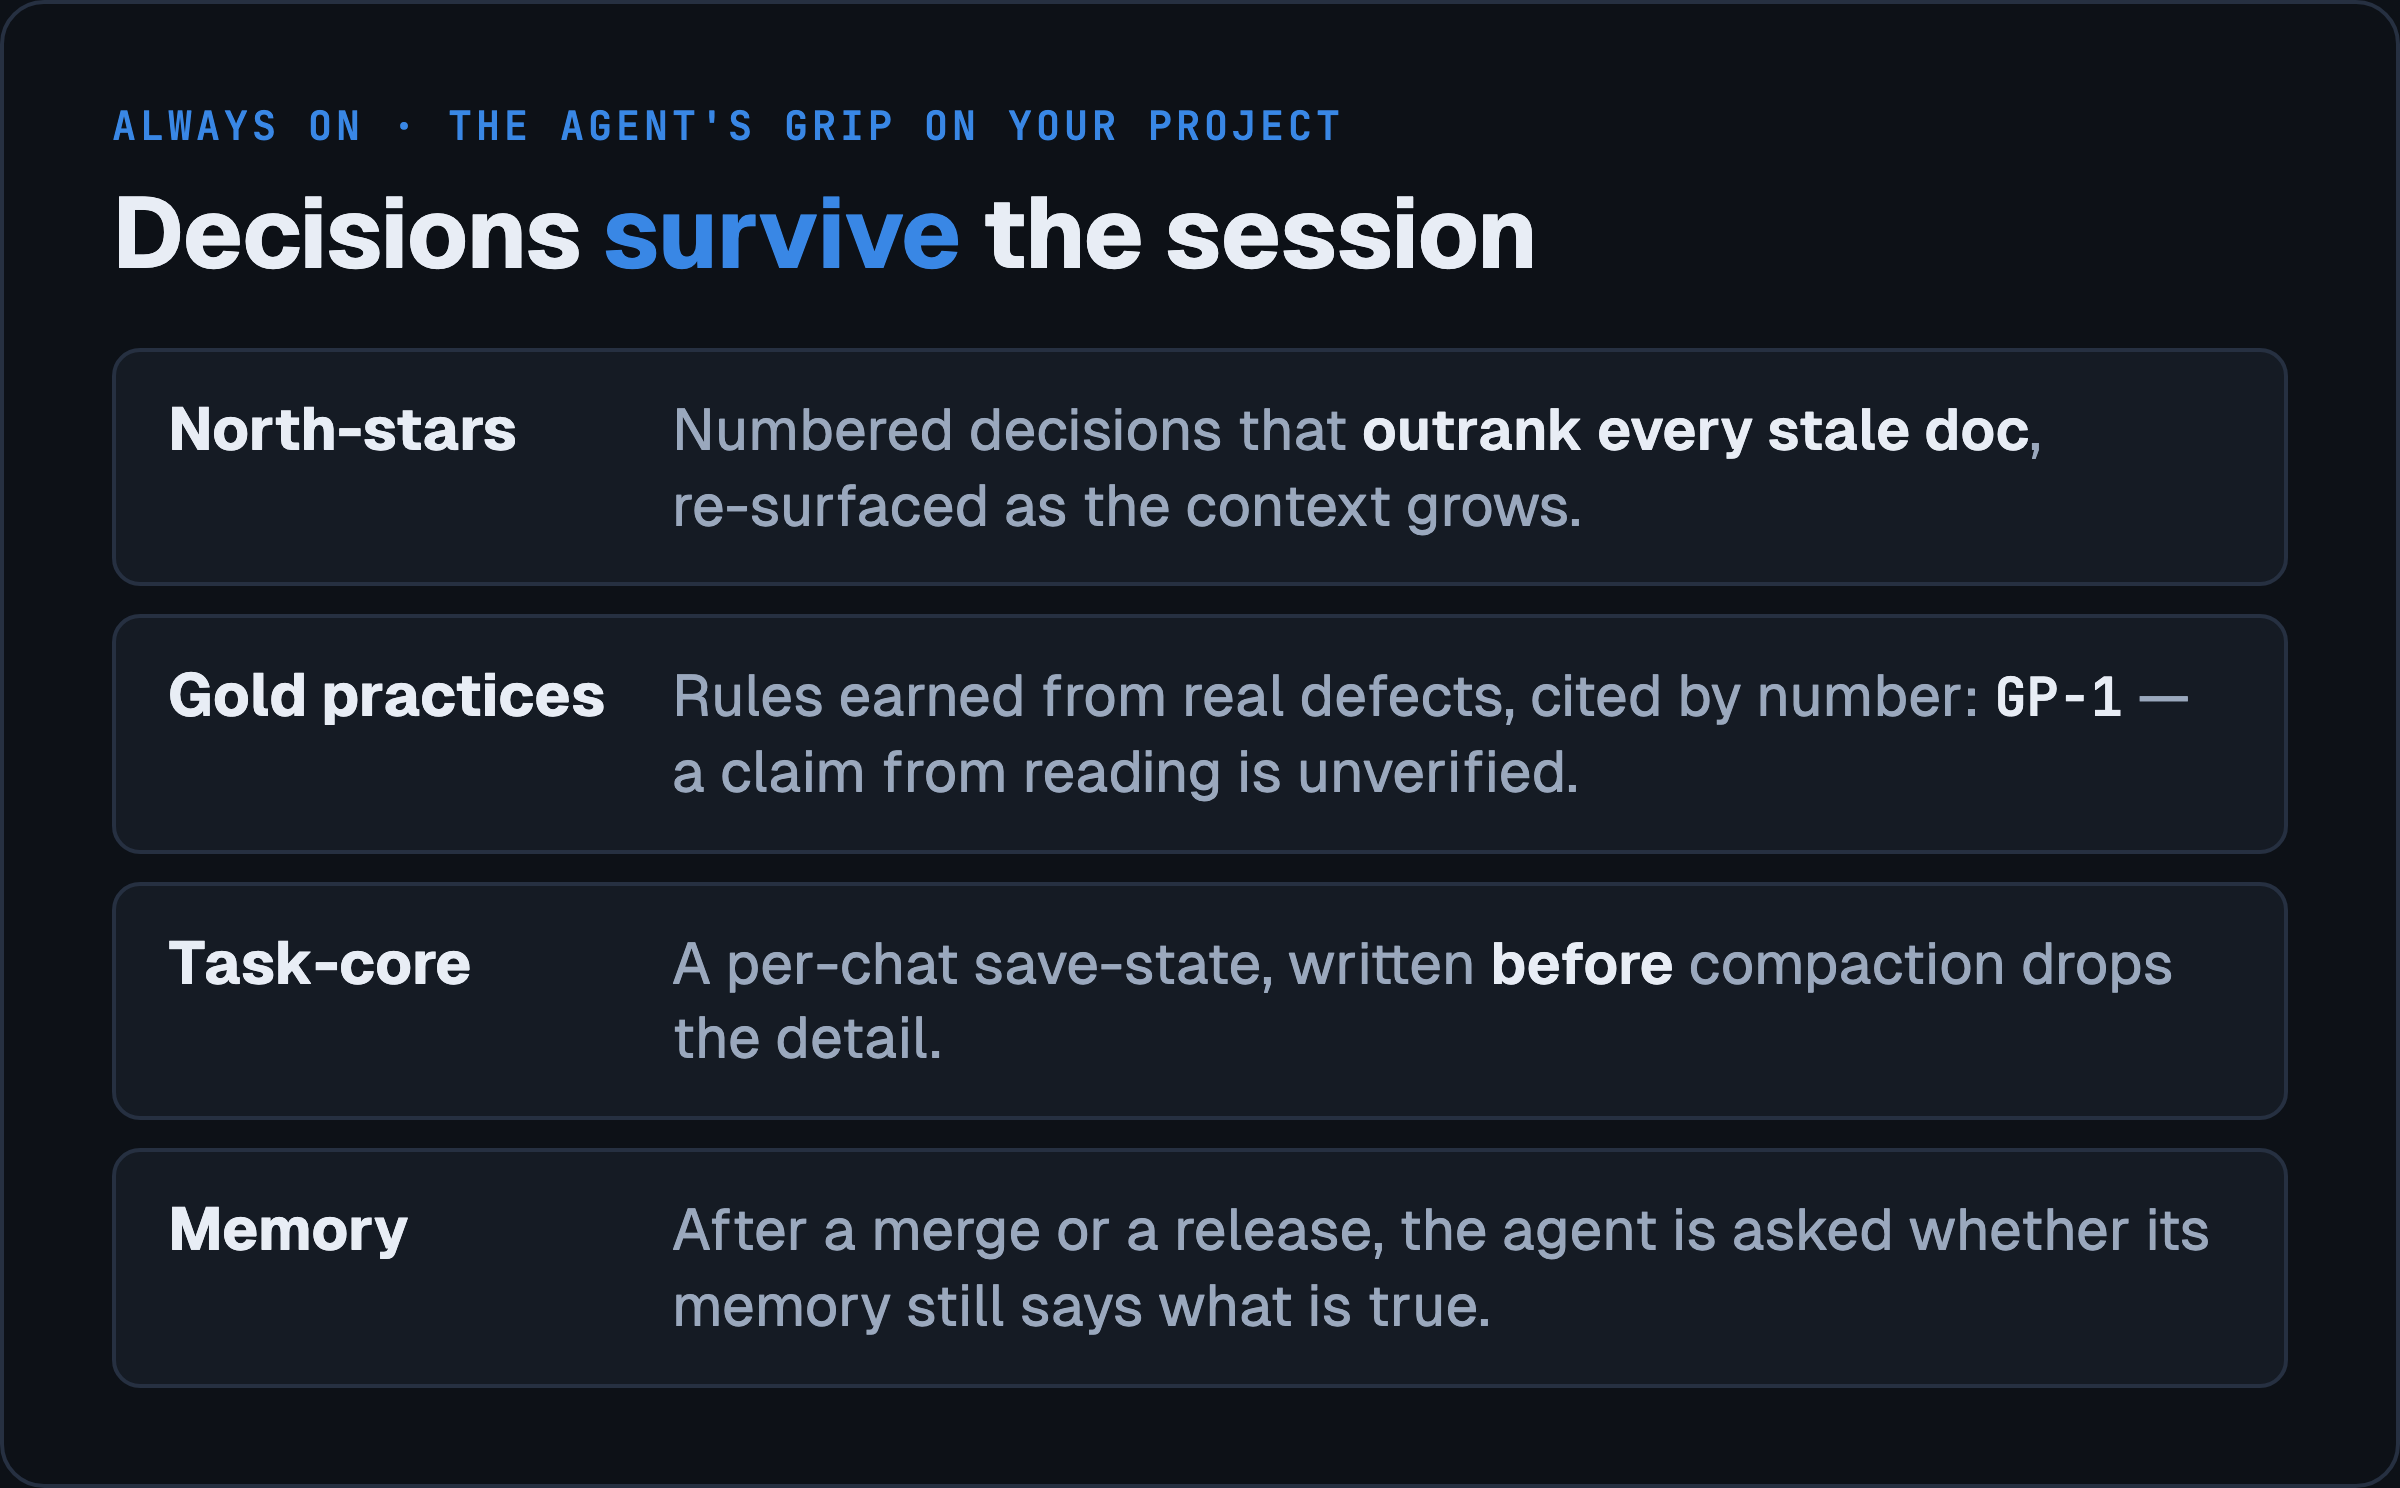
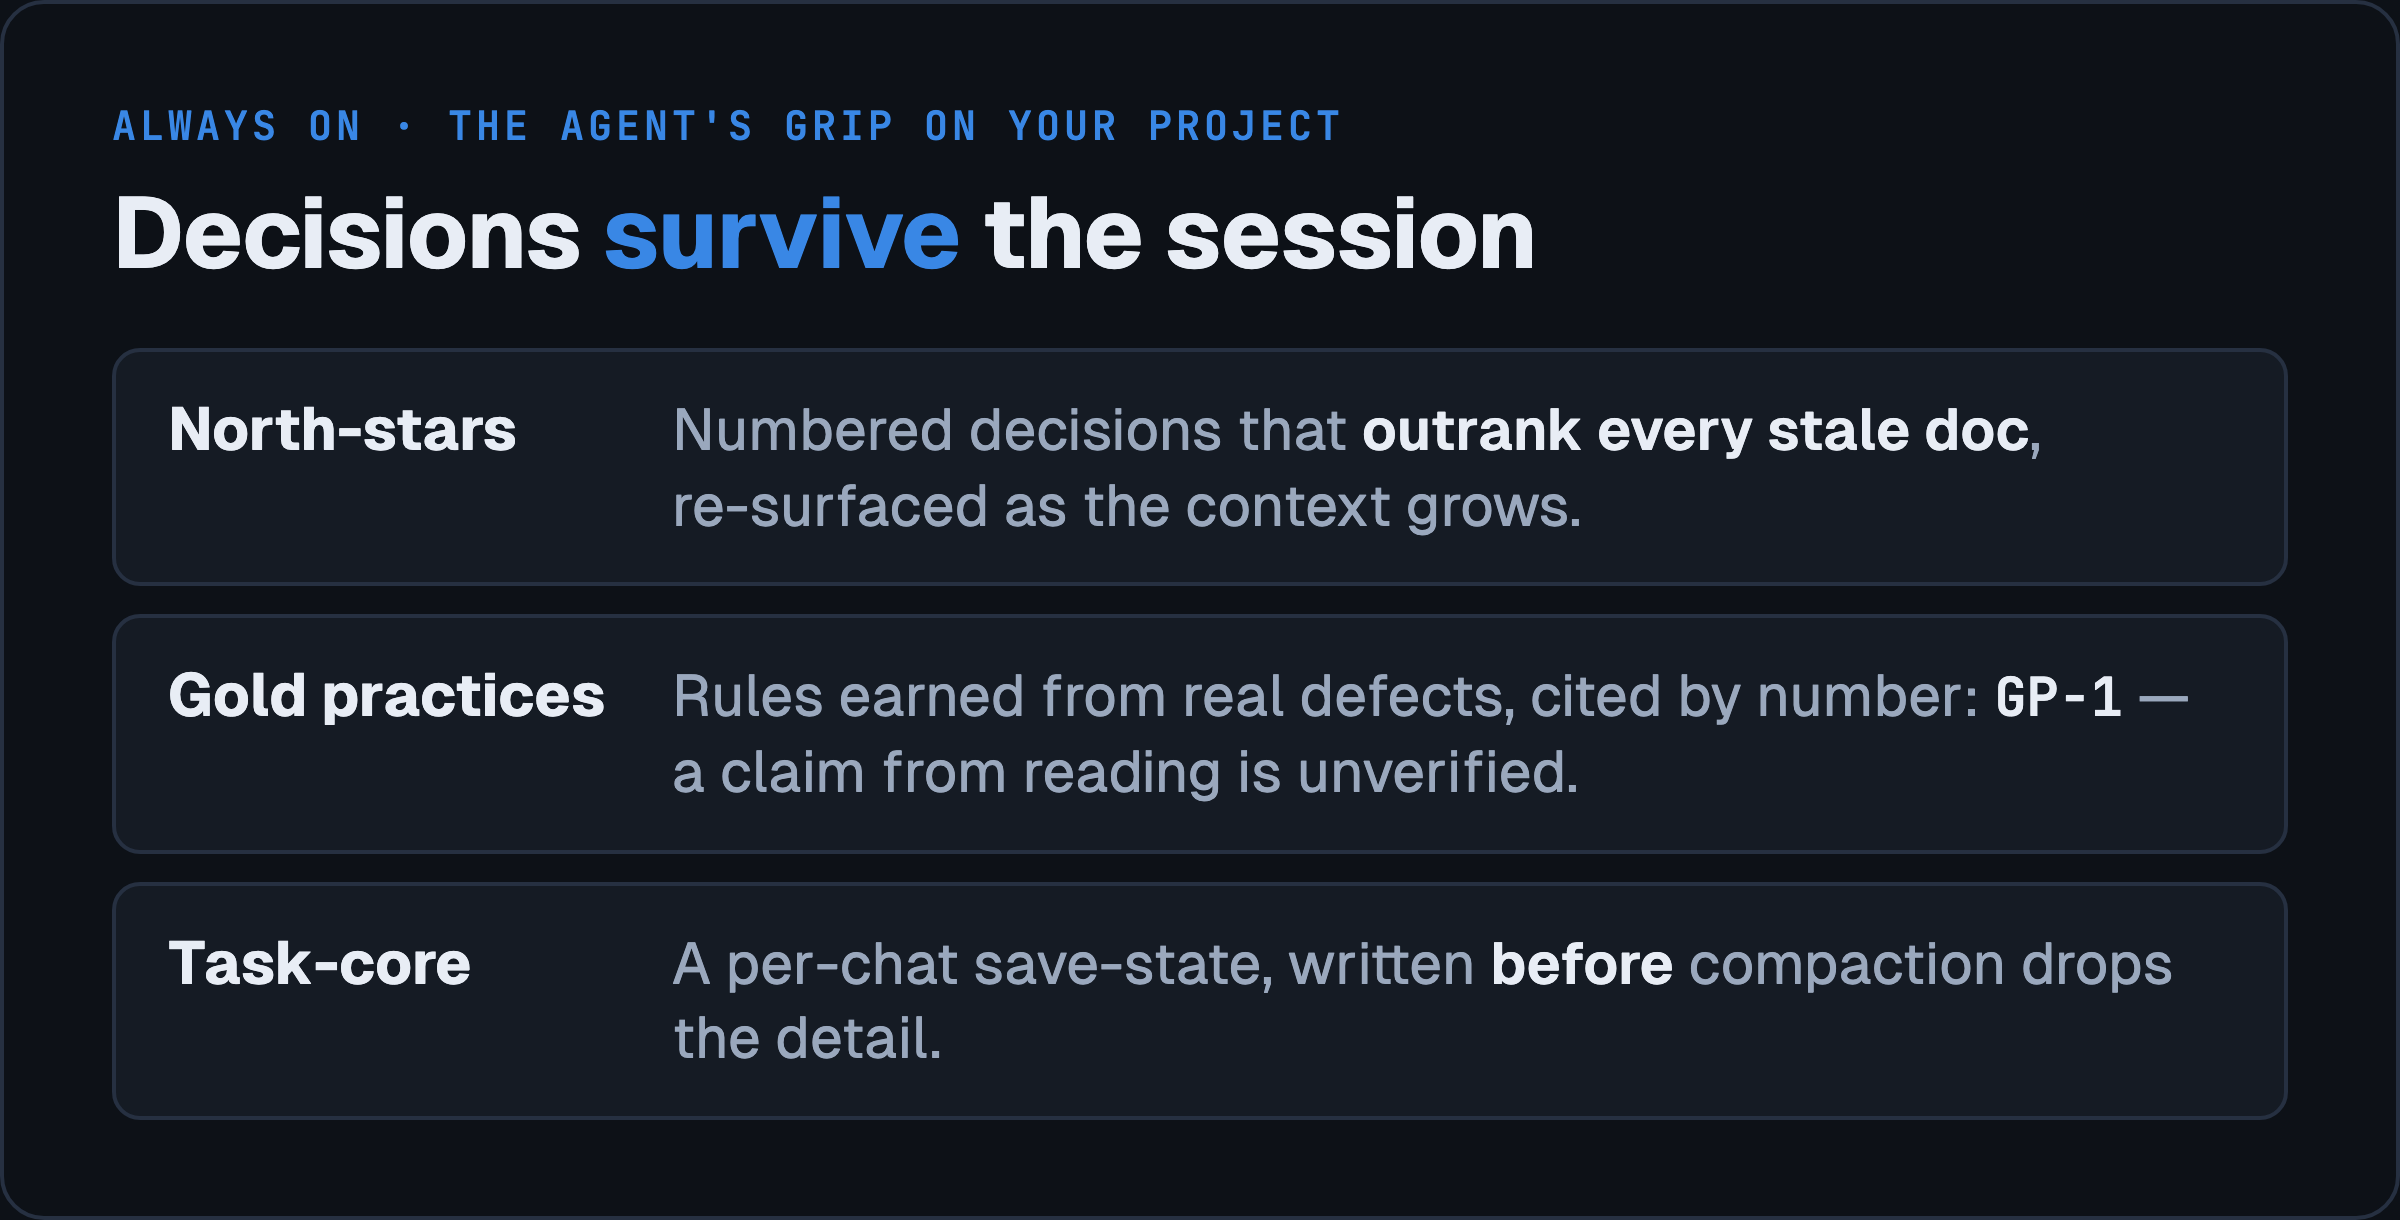
docs: memory maintenance as a headline feature — its own card, page and tagline
bearing asks the agent to keep its memory true at the four moments it goes stale — session start
when memory is a week old with commits since, 25 edits since the task-core, a merge/tag/release/
publish, and after compaction — and the storefront showed it as one row on the always-on card.

- docs/cards/memory.html → the second image in the README, right after the hero. Each moment's
  trigger is the one the hooks actually test (bearing-memory-nudge.mjs, bearing-session.mjs).
- docs/modules/memory.md: the triggers, what the agent is told, the knobs, where it runs.
- The always-on card drops its Memory row; the tagline and package.json description name it
  (340 chars, under GitHub's 350 for the About box).

Claude-Session: https://claude.ai/code/session_01UaeQM54jkGQDxCvAntzcyp

diff --git a/docs/cards/memory.html b/docs/cards/memory.html
@@ -1,0 +1,31 @@
+<!doctype html><html><head><meta charset="utf-8"><link rel="icon" href="data:,"><link rel="stylesheet" href="base.css">
+<style>
+  .loop { margin-top: 32px; display: grid; grid-template-columns: 1fr 1fr; gap: 18px; }
+  .step { padding: 24px 28px; border-radius: 16px; background: var(--panel); border: 2px solid var(--line); }
+  .when { font: 600 19px JBM, monospace; letter-spacing: .08em; text-transform: uppercase; color: var(--accent); }
+  .trig { margin-top: 10px; font-size: 27px; line-height: 1.3; color: var(--dim); }
+  .trig code { color: var(--ink); font: 600 .9em JBM, monospace; }
+  .act { margin-top: 10px; font-size: 30px; line-height: 1.28; color: var(--ink); font-weight: 600; }
+  .note { margin-top: 26px; font-size: 28px; line-height: 1.35; color: var(--dim); }
+  .note strong { color: var(--ink); font-weight: 600; }
+</style></head><body>
+<div class="card">
+  <div class="kicker">Always on · maintenance</div>
+  <h1>Your agent <em>keeps its own memory true</em></h1>
+  <div class="loop">
+    <div class="step"><div class="when">Session start</div>
+      <div class="trig">Memory is a week old, and commits have landed since</div>
+      <div class="act">Reconcile it before trusting it.</div></div>
+    <div class="step"><div class="when">While it works</div>
+      <div class="trig">Edits pile up since the task&#8209;core was saved</div>
+      <div class="act">Save the task again — compaction can land any time.</div></div>
+    <div class="step"><div class="when">At a milestone</div>
+      <div class="trig">A PR merged, a tag cut, a release, a publish</div>
+      <div class="act">Does memory still say what is true? Update it, delete what isn't.</div></div>
+    <div class="step"><div class="when">After compaction</div>
+      <div class="trig">The transcript was summarised away</div>
+      <div class="act">Read the task&#8209;core and memory back first, then check them against the code.</div></div>
+  </div>
+  <div class="note">bearing asks at the moment; <strong>the agent does the writing</strong>. Each prompt has a knob, and <code>npx bearing status</code> shows how often it fired.</div>
+</div>
+<script type="module" src="ready.js"></script></body></html>

diff --git a/docs/cards/anchors.html b/docs/cards/anchors.html
@@ -6,7 +6,6 @@
     <div class="mod"><b>North&#8209;stars</b><span>Numbered decisions that <strong>outrank every stale doc</strong>, re&#8209;surfaced as the context grows.</span></div>
     <div class="mod"><b>Gold practices</b><span>Rules earned from real defects, cited by number: <code>GP&#8209;1</code> — a claim from reading is unverified.</span></div>
     <div class="mod"><b>Task&#8209;core</b><span>A per&#8209;chat save&#8209;state, written <strong>before</strong> compaction drops the detail.</span></div>
-    <div class="mod"><b>Memory</b><span>After a merge or a release, the agent is asked whether its memory still says what is true.</span></div>
   </div>
 </div>
 <script type="module" src="ready.js"></script></body></html>

diff --git a/README.md b/README.md
@@ -7,8 +7,8 @@
 **Your tests catch code that breaks. Nothing catches an agent that has drifted about what the code *means*.**
 
 A toolbelt for developers who already work with coding agents: north-stars that outrank stale docs,
-a task-core that survives compaction, ast-grep with the traps that make it lie, review and fan-out
-when you ask for them. **You decide when.**
+memory the agent keeps true, a task-core that survives compaction, ast-grep with the traps that make
+it lie, review and fan-out when you ask for them. **You decide when.**
 
 [![npm](https://img.shields.io/npm/v/bearing?color=3987e5)](https://www.npmjs.com/package/bearing)
 [![npm downloads](https://img.shields.io/npm/dt/bearing?color=3987e5)](https://www.npmjs.com/package/bearing)
@@ -31,13 +31,19 @@ A drifted agent doesn't crash. It reads a doc you abandoned in March, re-propose
 already measured and killed, and writes a convincing paragraph about it. You nod. You find out three
 days later. That failure has a name — **losing your bearings**.
 
+<img src="https://raw.githubusercontent.com/ReidenXerx/bearing/main/docs/assets/cards/memory.png" alt="Your agent keeps its own memory true. At session start, when memory is a week old and commits have landed since, it reconciles memory before trusting it. While it works, when edits pile up, it saves the task-core again. At a milestone — a PR merged, a tag, a release, a publish — it checks whether memory still says what is true. After compaction it reads the task-core and memory back first. bearing asks; the agent writes; every prompt has a knob." width="100%">
+
+**And it keeps its own memory true.** The next session starts from memory, not from this transcript —
+so the agent is asked to maintain it at the four moments it goes stale, and writes it itself.
+[How, and the knobs](https://github.com/ReidenXerx/bearing/blob/main/docs/modules/memory.md)
+
 ## What you get
 
 Sixteen modules, each independent: pick any combination. Seven are on by default; the rest you add.
 
-<img src="https://raw.githubusercontent.com/ReidenXerx/bearing/main/docs/assets/cards/anchors.png" alt="Always on: north-stars outrank every stale doc; gold practices are rules earned from real defects, cited by number; the task-core is a per-chat save-state written before compaction; after a merge or a release the agent is asked whether its memory is still true." width="100%">
+<img src="https://raw.githubusercontent.com/ReidenXerx/bearing/main/docs/assets/cards/anchors.png" alt="Always on: north-stars outrank every stale doc; gold practices are rules earned from real defects, cited by number; the task-core is a per-chat save-state written before compaction." width="100%">
 
-**Always on, and the reason it exists.** [North-stars](https://github.com/ReidenXerx/bearing/blob/main/docs/modules/northstars.md) (with the memory check) · [gold practices](https://github.com/ReidenXerx/bearing/blob/main/docs/modules/northstars.md) · [task-core](https://github.com/ReidenXerx/bearing/blob/main/docs/modules/taskcore.md)
+**Always on, and the reason it exists.** [North-stars](https://github.com/ReidenXerx/bearing/blob/main/docs/modules/northstars.md) · [gold practices](https://github.com/ReidenXerx/bearing/blob/main/docs/modules/northstars.md) · [task-core](https://github.com/ReidenXerx/bearing/blob/main/docs/modules/taskcore.md)
 
 <img src="https://raw.githubusercontent.com/ReidenXerx/bearing/main/docs/assets/cards/onask.png" alt="On your command: microscope this starts a domain-expert review panel whose findings must survive refutation; fan this out starts subagents that return citations, never verdicts; consult asks only what the repo cannot answer and confirms before anything irreversible." width="100%">
 

diff --git a/docs/modules/memory.md b/docs/modules/memory.md
@@ -1,0 +1,28 @@
+# 💭 Memory maintenance — the agent keeps its own memory true
+
+Memory is what the **next** session starts from. A coding agent writes it when it thinks of it, and
+nothing else keeps it current: a decision changes, a PR merges, the plan moves on, and next week's
+session trusts a file that describes last week's project. bearing asks the agent to maintain it at
+the four moments it goes stale. The agent does the writing; bearing never writes memory itself.
+
+| When | What the agent is told |
+|---|---|
+| **Session start** — memory is 7+ days old *and* commits have landed since | Reconcile it before relying on it: update or delete what is no longer true. Silent when memory is fresh or nothing was committed. |
+| **While it works** — 25 edits since the task-core was last written | Refresh the task-core: goal, decisions and why, state, `file:line` anchors, what already failed. A compaction can land at any time and gives no warning. |
+| **At a milestone** — `gh pr merge`, `gh release create`, a `git tag` that creates a tag, `npm`/`pnpm`/`yarn publish` | Does memory still say what is true? If the project's state, a decision, what is next or how you work changed, update it now — one fact per file, stale entries corrected or deleted. Nothing changed, nothing to write. |
+| **After compaction** — the transcript was summarised away | Read the task-core and memory back first, whole, and reconcile them with the code before continuing. |
+
+The milestone prompt stays quiet when memory was written in the last 30 minutes, and speaks at most
+once per 30 minutes, so merge-then-tag is one milestone, not two.
+
+**Knobs** (in `.bearing/hooks.json`, then `bearing update`): `memoryNudge: false` turns off the
+milestone and weekly prompts, `memoryStaleDays` sets the week, `taskCoreEveryEdits` sets the edit
+count (`0` = off). `npx bearing status` lists each one with how often it fired in the last 30 days.
+
+**Where it runs.** The prompts need tool hooks, which only Claude Code exposes; it ships with the
+north-stars and task-core modules, both on by default. On Zed and Codex the contract still tells the
+agent to keep memory and a task-core, and the task-core skill can be invoked by name.
+
+---
+
+[← back to the README](../../README.md)

diff --git a/docs/modules/northstars.md b/docs/modules/northstars.md
@@ -31,13 +31,9 @@ agent, on this codebase:
 > while the shipped config always passed a number — so the fix could not run, and did not, for two
 > releases.*
 
-## 💭 Memory — kept true, not just kept
+## 💭 Memory
 
-In Claude Code, the north-stars module also asks one question at the moments memory goes stale: after a merge, a
-tag, a release or a publish, the agent is asked whether its project memory still says what is true.
-In the session brief, a memory file that is a week or more old with commits since gets the same
-question. It never writes memory itself. Turn it off with `"memoryNudge": false` in
-`.bearing/hooks.json`, then `bearing update`; `npx bearing status` shows how often it fired.
+The north-stars module also keeps the agent's memory true — see [memory maintenance](memory.md).
 
 ---
 
